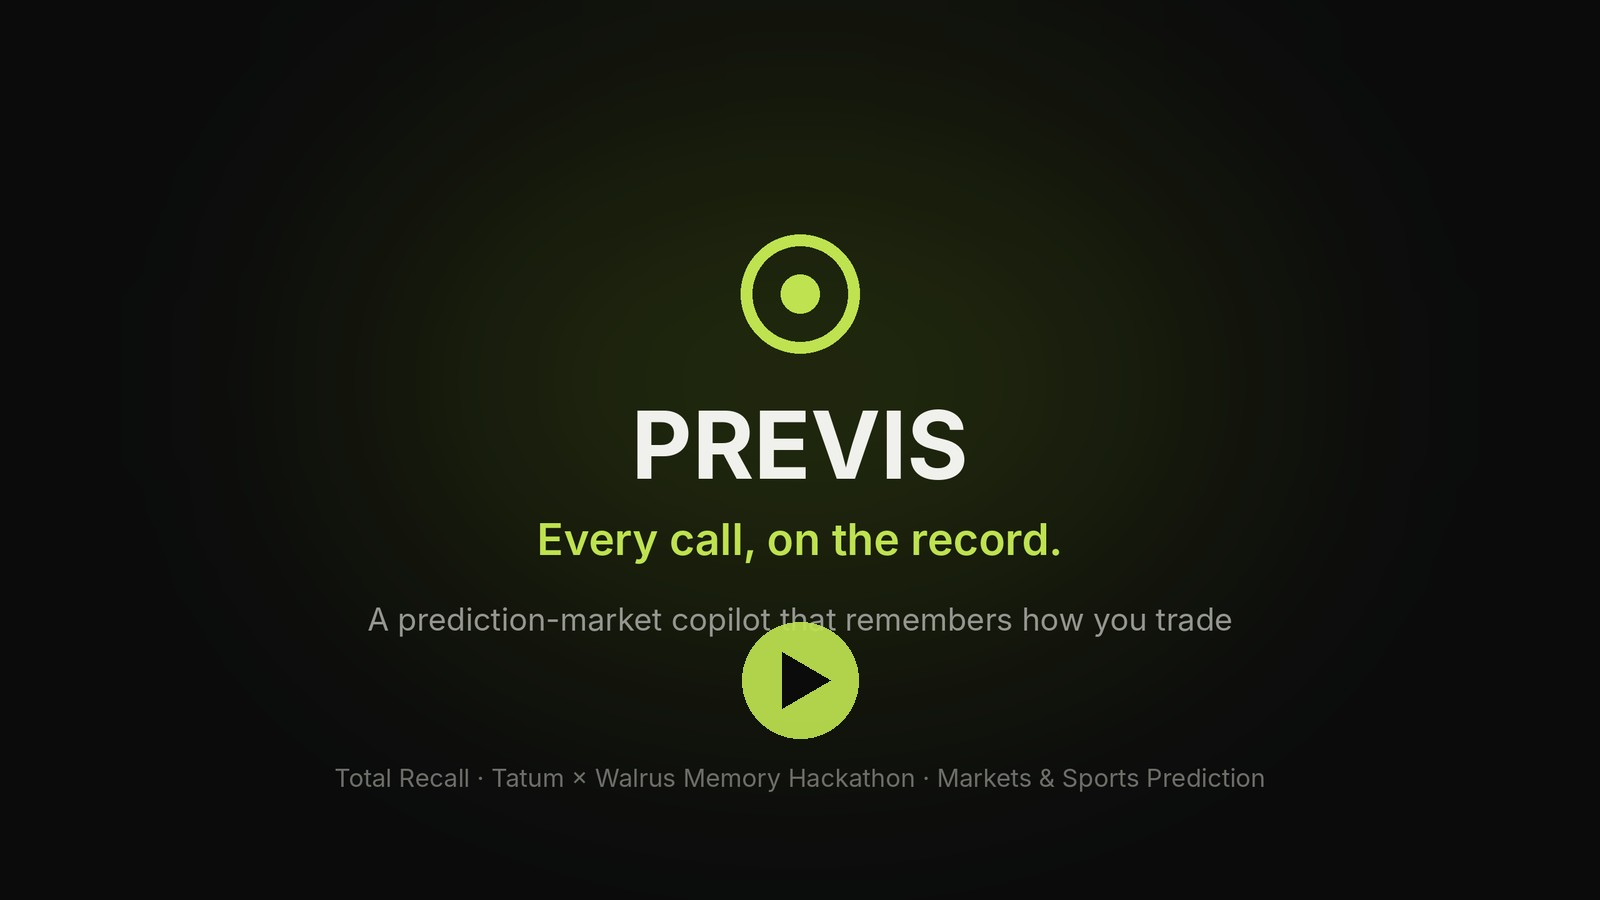
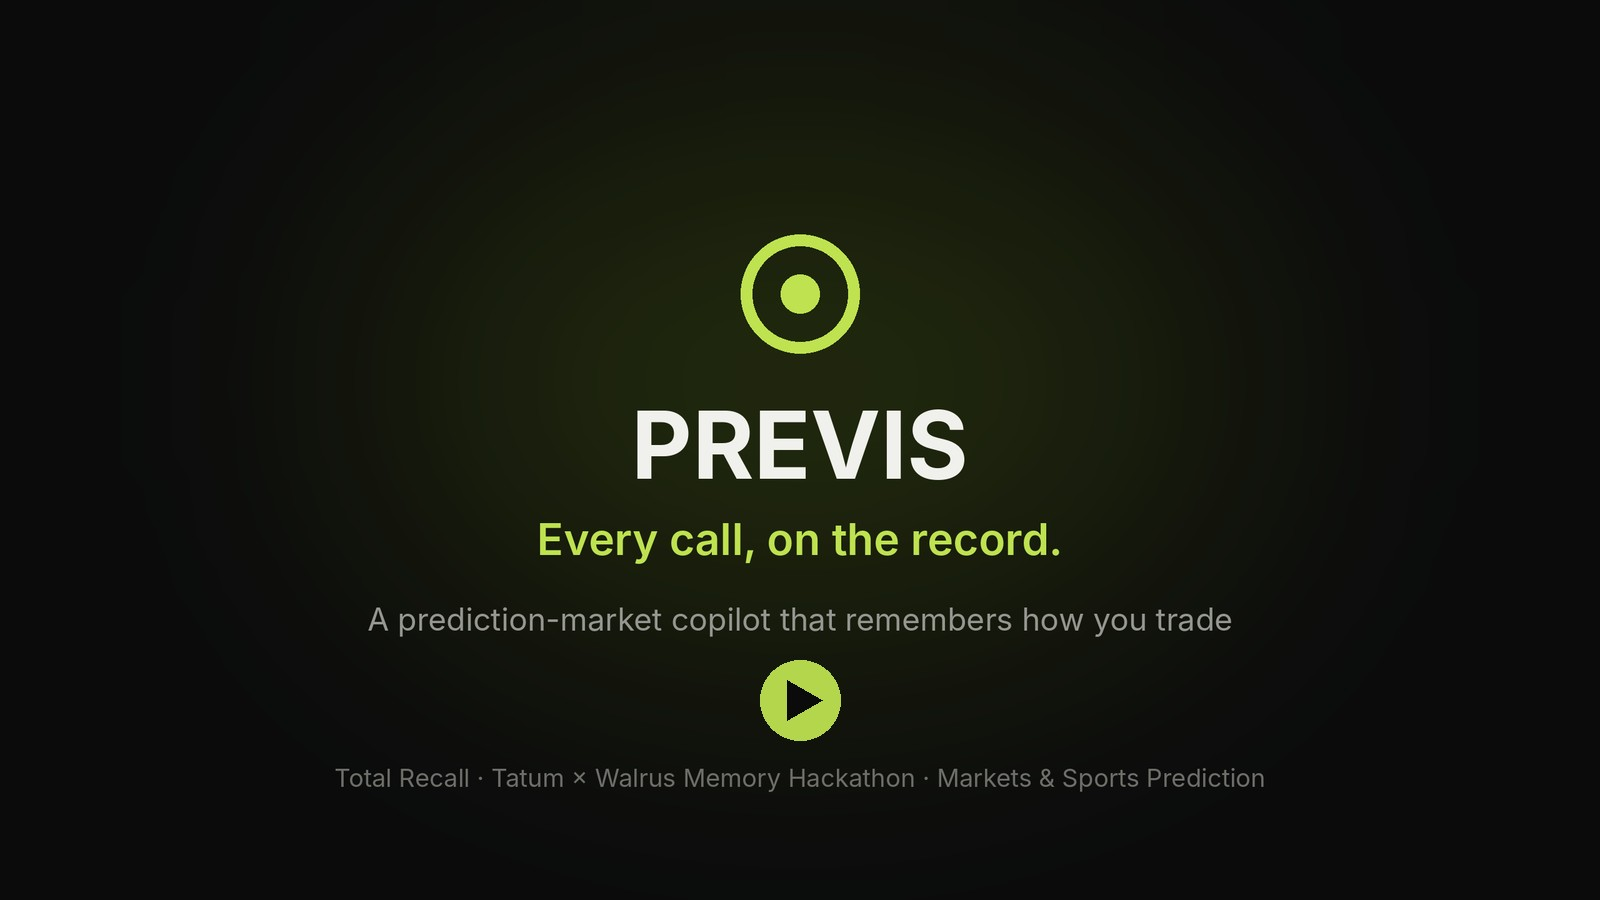
README: clearer memory diagram, fix demo thumbnail

Changed region(s): [[0.4375, 0.6844, 0.5625, 0.8089]]

diff --git a/README.md b/README.md
@@ -142,16 +142,13 @@ Walrus Memory is the product, not a log. It's read before **every** copilot answ
 | `previs-credibility` *(shared)* | `"<caller> called YES on … and was right. Now right 15 of 27."` | A market settles | Recalled to decide whose calls to trust on that league |
 
 ```mermaid
-flowchart LR
-    U[You] -- "my limit is 3%" --> C[AI Copilot]
-    C -- remember --> W[(Walrus Memory<br/>Mainnet)]
-    U -- "what's your pick?" --> C
-    W -- recall --> C
-    C -- "pick + Because I remember" --> U
-    U -- save pick --> R[Receipt]
-    R -- remember --> W
-    S[Market settles] -- results --> W
-    W -- credibility --> C
+flowchart TB
+    A["① You tell it a rule<br/><i>“my limit is 3% per trade”</i>"] --> W
+    B["② You save a pick<br/><i>receipt + Sui checkpoint</i>"] --> W
+    S["③ The market settles<br/><i>won / lost, caller credibility</i>"] --> W
+    W[("Walrus Memory · Mainnet<br/>your namespace + shared credibility")]
+    W -- "recalled before every answer" --> C["AI Copilot"]
+    C --> O["Pick · confidence · amount<br/><b>Because I remember…</b>"]
 ```
 
 **Engineering notes**
